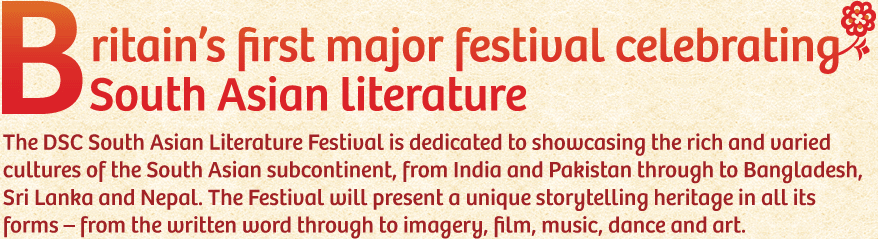
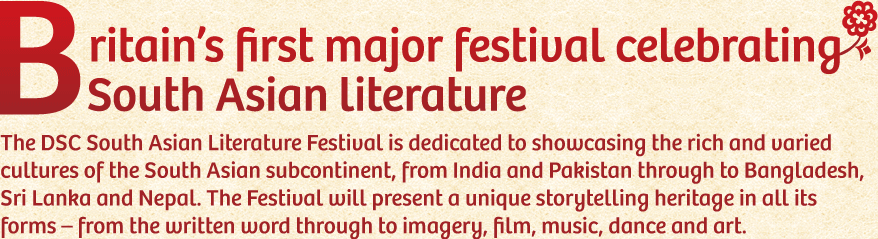
flickr upgrades

diff --git a/trunk/salf/style/css/layout.css b/trunk/salf/style/css/layout.css
@@ -22,7 +22,7 @@ html, body{
 body{
 	width: 100%;
 	
-	background: #D92417 url('../images/backdrop-grate.png') repeat-x right 0px;
+	background: #b61d22 url('../images/backdrop-grate.png') repeat-x right 0px;
 	
 	color: #414042;
 	
@@ -185,7 +185,7 @@ h1, h2, h3, h4,h5,h6{
 }
 
 #header{
-	height: 265px;
+	height: 255px;
 	width: 960px;
 	padding: 0;
 	border-bottom: 1px white solid;
@@ -1237,7 +1237,7 @@ Messages
 	padding: 4px 0;
 	text-align: center;
 	border-bottom: solid 1px #000;
-	z-index: 3;
+	z-index: 1000;
 	
 }
 .top-message a{
@@ -1253,4 +1253,29 @@ Books
 */
 .books .new-entry{
 	margin-bottom: 12px;
+}
+/*
+Media - Flickr
+*/
+#photoset, .photoset{
+	float: left;
+}
+ul.flickr_feed li{
+	list-style: none;
+	float: left;
+	height: 260px;
+	width: 260px;
+}
+ul.flickr_feed li a img{
+	position: relative;
+	border: white 3px solid;
+}
+ul.flickr_feed li a{
+	position: relative;
+	display: block;
+}
+ul.flickr_feed li a img:hover{
+	-webkit-box-shadow: -1px 1px 7px #DE9228;  
+	-moz-box-shadow: -1px 1px 7px #DE9228;
+	
 }

diff --git a/trunk/salf/style/css/typography.css b/trunk/salf/style/css/typography.css
@@ -89,4 +89,5 @@ a.top{
 }
 a.venue p{
 	font-size: 1.1em;
+	width: 165px;
 }

diff --git a/trunk/salf/flickr_class.php b/trunk/salf/flickr_class.php
@@ -11,7 +11,7 @@ class FlickrObject{
 	private $callback_array; //holds API responce array
 	private $photo_array;//holds array of photo info
 	
-	function image_tag($photo){
+	function image_tag($photo, $thumbs=false){
 		//return URL for displaying image, based on array of attributes from flickr
 		
 		$img_tag = '<img src="';
@@ -23,7 +23,7 @@ class FlickrObject{
 		$img_tag .= $photo['id'];
 		$img_tag .= '_';
 		$img_tag .= $photo['secret'];
-		$img_tag .= '_m.jpg';
+		$img_tag .= ($thumbs?'_s.jpg':'_m.jpg');
 		$img_tag .= '" />';
 		
 		return $img_tag;
@@ -34,7 +34,7 @@ class FlickrObject{
 		
 		$img_tag = "<a target='_blank' href='";
 		$img_tag .= "http://www.flickr.com/photos/";
-		$img_tag .= $photo['owner'];
+		$img_tag .= $this->user_id;
 		$img_tag .= '/';
 		$img_tag .= $photo['id'];
 		if ($inc_end):
@@ -104,7 +104,7 @@ class FlickrObject{
 		//converts returned API call into associative array
 		$this->api_call();
 		if ($this->stat!='ok') return false; //Kills function if API call failed.
-		
+	
 		if(!$single):
 			foreach ($this->callback_array[$relevant_array] as $photo){
 				$photos[]=get_object_vars($photo);
@@ -142,7 +142,8 @@ class FlickrObject{
 	endif;
 	}
 	
-	function get_image_by_id($id){
+	function get_image_by_id($id, $url=false, $thumbs=false, $title=false){
+		
 		$this->method = 'flickr.photos.getInfo';
 		$this->params = array('photo_id' => $id);
 		$this->convert_XML('photo', true);
@@ -155,8 +156,15 @@ class FlickrObject{
 				'owner'	=> 	$this->photo_array['owner']->attributes['nsid']			
 				),$photo);
 		
-			echo "<a href='$link'>";
-			echo $this->image_tag($photo);
+		if($url) $link = $url;
+		if($title) {
+			$title_attr = 'title="'.$title.'"';
+			
+		} else {
+			$title_attr = "";
+		}
+			echo "<a href='$link' $title_attr>";
+			echo $this->image_tag($photo, $thumbs);
 			echo "</a>";
 		else: //if API call failed
 			echo "Flickr Call Failed - Please Check Photo ID";
@@ -164,10 +172,31 @@ class FlickrObject{
 		
 		
 	}
-	
+	function get_sets(){
+		$this->method = "flickr.photosets.getList";
+		$this->convert_XML('photosets');
+		
+		foreach ($this->photo_array as $photoset){
+			//fb::log($photoset,'photoset');
+			$thumb_id = $photoset['@attributes']['primary'];
+			$title = $photoset['title'];
+			$url = "?id=".$photoset['@attributes']['id']."&title=".urlencode($title);
+			$this->display_photoset_thumb($title,$thumb_id,$url);
+			
+			
+			 //fetch photoset thumbnail
+			
+		}
+	}
+	function display_photoset_thumb($title,$thumb_id,$url=false){
+		echo "<div class='photoset'>";
+		//echo "<h3>".$title."</h3>";
+		$this->get_image_by_id($thumb_id,($url?$url:false), true, $title);
+		echo "</div>";
+	}
 	function get_photoset($id){
 		$this->method = 'flickr.photosets.getPhotos';
-		$this->params = array('photoset_id' => $id, 'per_page' => 5);
+		$this->params = array('photoset_id' => $id);
 		
 		$this->images_and_links('photoset');
 		////fb::log($this->photo_array,'get_photoset');

diff --git a/trunk/salf/vimeo_class.php b/trunk/salf/vimeo_class.php
@@ -148,20 +148,20 @@ function multimedia_options_do_page() {
 
             <table class="form-table">
 
-                <tr valign="top"><th scope="row">Vimeo ID</th>
+                <tr valign="top"><th scope="row">Vimeo Username</th>
 
-                    <td><input type="text" name="multimedia_[vimeo_id]" value="<?php echo $options['vimeo_id']; ?>" /></td>
+                    <td><input type="text" name="multimedia_[vimeo_id]" value="<?php echo $options['vimeo_id']; ?>" /><p>as it appears in the address bar</p></td>
 
                 </tr>
 				
 				<tr valign="top"><th scope="row">Flickr Api Key</th>
 
-                    <td><input type="text" name="multimedia_[flickr_api_key]" value="<?php echo $options['flickr_api_key']; ?>" /></td>
+                    <td><input type="text" name="multimedia_[flickr_api_key]" value="<?php echo $options['flickr_api_key']; ?>" /><p>Fetch from 'my apps' within FLickr</p></td>
 
                 </tr>
 				<tr valign="top"><th scope="row">Flickr User ID</th>
 
-                    <td><input type="text" name="multimedia_[flickr_user_id]" value="<?php echo $options['flickr_user_id']; ?>" /></td>
+                    <td><input type="text" name="multimedia_[flickr_user_id]" value="<?php echo $options['flickr_user_id']; ?>" /><p>Fetch from <a href="http://get-flickr-id.ubuntu4life.com/" target="_blank">here</a></p></td>
 
                 </tr>
             </table>

diff --git a/trunk/salf/flickr_page.php b/trunk/salf/flickr_page.php
@@ -1,0 +1,45 @@
+<?php
+ob_start();
+/*
+Template Name: Flickr Page
+*/
+?>
+<?php get_header(); ?>
+
+	
+	<div class="post media">
+		<img src="<?php echo bloginfo('template_url'); ?>/style/images/media_title.png" alt="Media">
+		<?php if (have_posts()) : while (have_posts()) : the_post(); ?>
+			<div class="clear"><?php the_content(); ?></div>
+		<?php endwhile; endif; ?>
+		
+		
+		<?php if($_GET['media']=='video'): ?>
+			<div id='flickr' class="multimedia">
+			
+			</div>
+		<?php else: ?>
+			<div id='flickr' class="multimedia">
+		
+			<?php $flickr = new FlickrObject(); ?>
+		
+		
+			<div id="photoset_select" class='clear'>		
+				<?php $flickr->get_sets(); ?>
+			</div>
+			<div id="photoset">	
+			<?php if ($_GET['id']):?>
+			
+				<?php if($_GET['title']) echo "<h2>".$_GET['title'].'</h2>'; ?>
+				<?php $flickr->get_photoset($_GET['id']); ?>	
+			<?php else:?>
+				<h2>Please Select a photoset</h2>
+					
+			<?php endif; ?>
+			</div>
+			<?php endif; ?>
+</div>
+		
+		
+		
+<?php get_footer(); ?>
